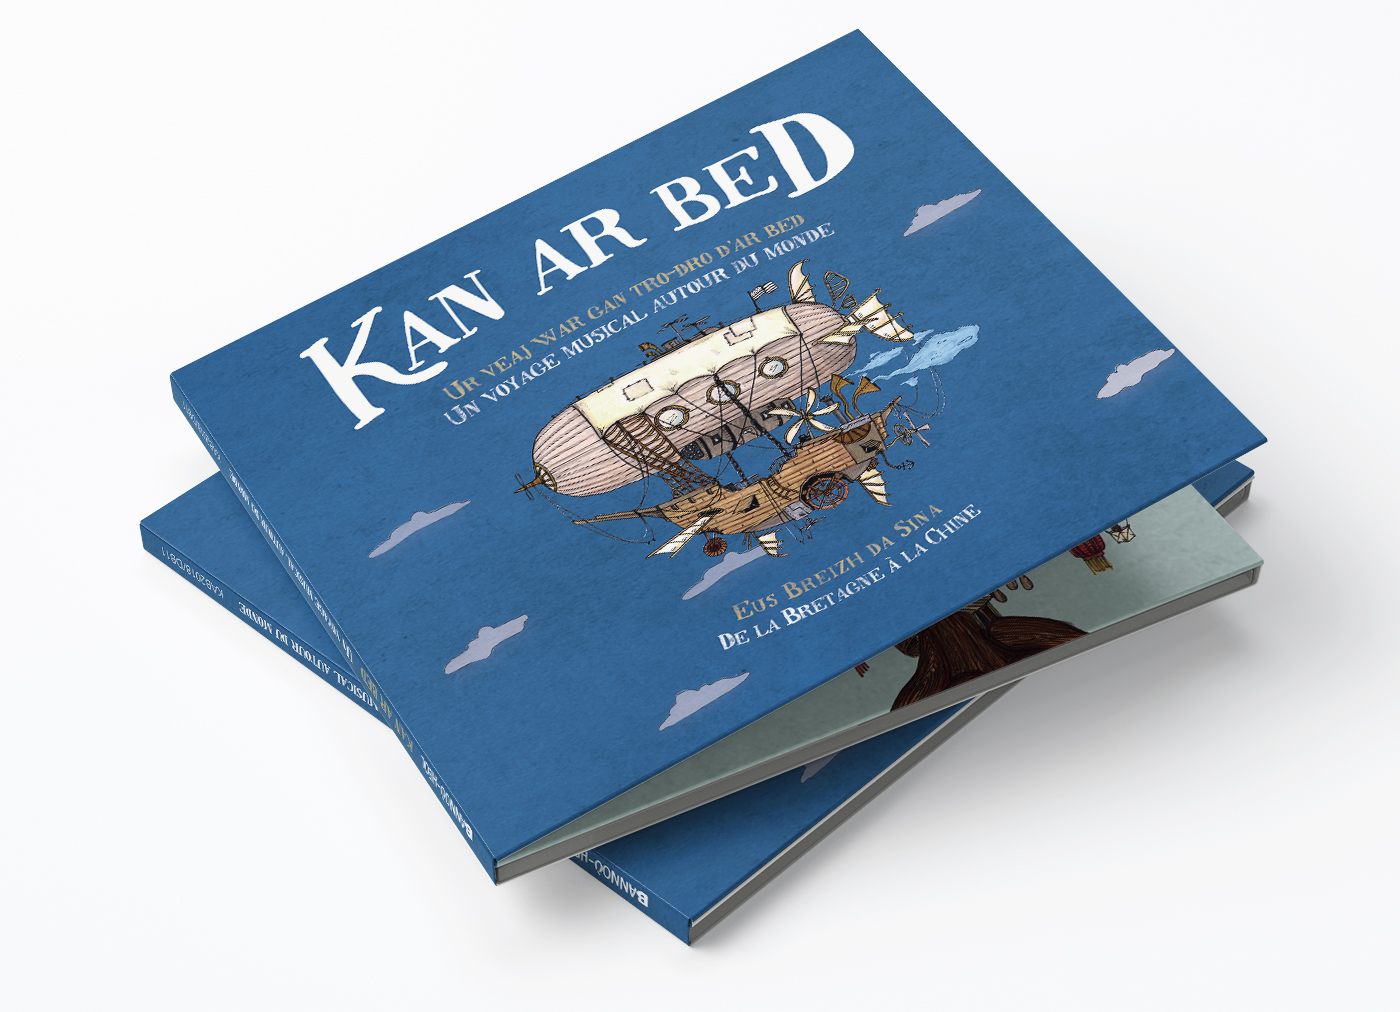
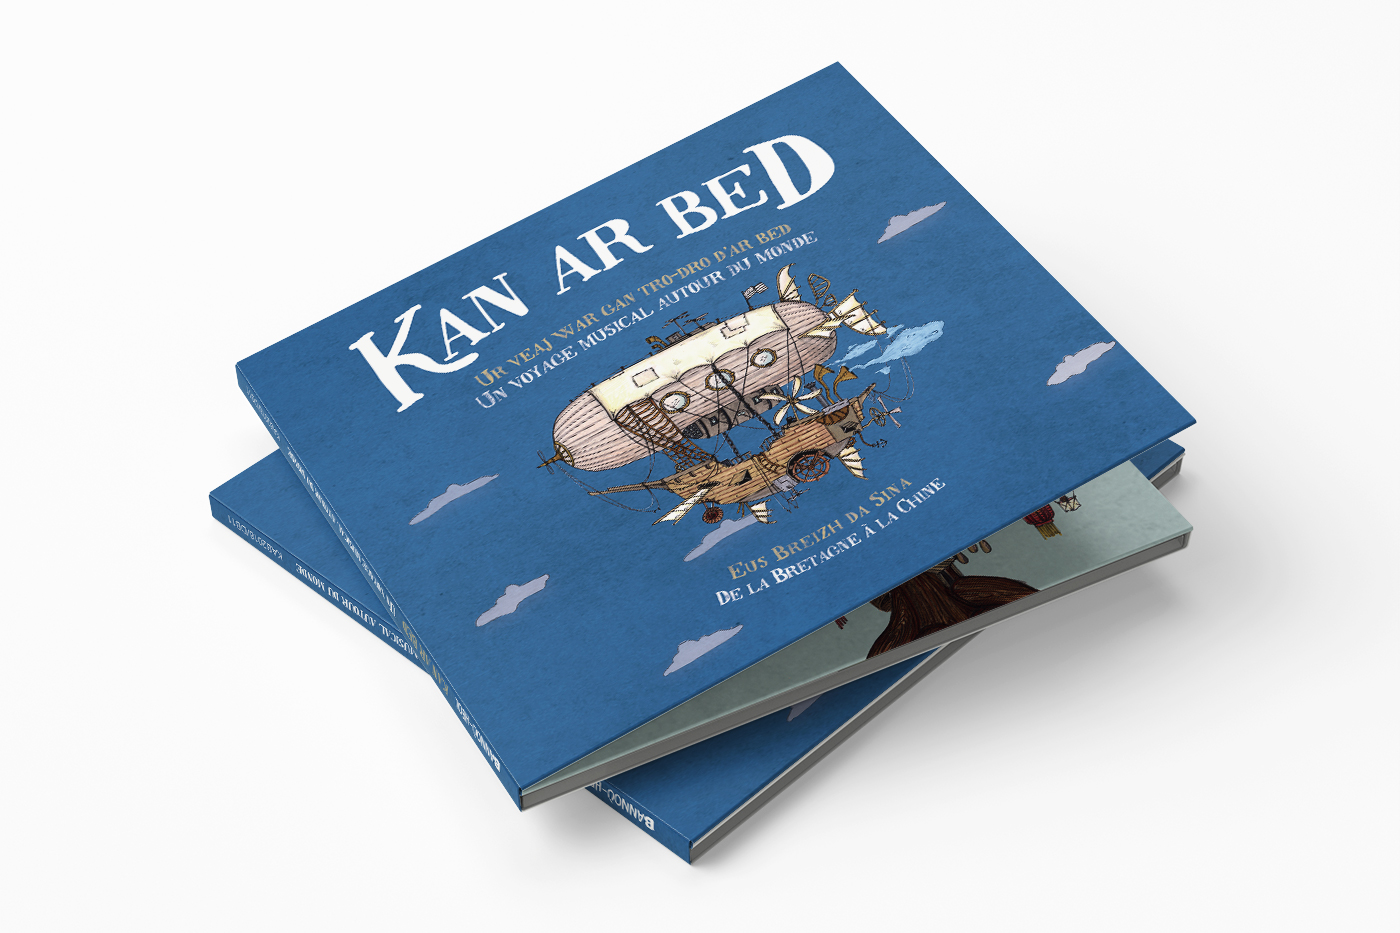
img updates

Changed region(s): [[0.0921, 0.0311, 0.9521, 0.9636], [0.4914, 0.7771, 0.5221, 0.8081], [0.4607, 0.746, 0.4914, 0.7771]]

diff --git a/content/product/kan-ar-bed-livre-cd.html b/content/product/kan-ar-bed-livre-cd.html
@@ -6,8 +6,39 @@ price: 21.90
 <div class="product-page container mt-3 mb-5" itemscope itemtype="https://schema.org/Book">
   <div class="row d-flex justify-content-between">
     <div class="col-md-6" style="border:7px solid #fefefe;box-shadow: 0 10px 20px rgba(0,0,0,0.30), 0 6px 6px rgba(0,0,0,0.10);">
-      <img src="/img/kan-ar-bed-livre.jpg" class="img-fluid pt-3">
-      <div class="thumbnails"></div>
+      <!--<img src="/img/kan-ar-bed-livre.jpg" class="img-fluid pt-3">-->
+      <!--Carousel Wrapper-->
+      <div id="carouselExampleIndicators" class="carousel slide pt-3" data-ride="carousel">
+        <ol class="carousel-indicators">
+          <li data-target="#carouselExampleIndicators" data-slide-to="0" class="active"></li>
+          <li data-target="#carouselExampleIndicators" data-slide-to="1"></li>
+          <li data-target="#carouselExampleIndicators" data-slide-to="2"></li>
+          <li data-target="#carouselExampleIndicators" data-slide-to="3"></li>
+        </ol>
+        <div class="carousel-inner">
+          <div class="carousel-item active">
+            <img class="d-block w-100" src="/img/kan-ar-bed-livre.jpg" alt="Kan ar Bed - Livre CD">
+          </div>
+          <div class="carousel-item">
+            <img class="d-block w-100" src="/img/kan-ar-bed-livre-2.jpg" alt="Kan ar Bed - Livre CD">
+          </div>
+          <div class="carousel-item">
+            <img class="d-block w-100" src="/img/kan-ar-bed-livre-cd-mockup-4.jpg" alt="Kan ar Bed - Extrait">
+          </div>
+          <div class="carousel-item">
+            <img class="d-block w-100" src="/img/kan-ar-bed-livre-cd-mockup-5.jpg" alt="Kan ar Bed - Extrait">
+          </div>
+        </div>
+        <a class="carousel-control-prev" href="#carouselExampleIndicators" role="button" data-slide="prev">
+          <span class="carousel-control-prev-icon" aria-hidden="true"></span>
+          <span class="sr-only">Précédent</span>
+        </a>
+        <a class="carousel-control-next" href="#carouselExampleIndicators" role="button" data-slide="next">
+          <span class="carousel-control-next-icon" aria-hidden="true"></span>
+          <span class="sr-only">Suivant</span>
+        </a>
+      </div>
+      <!--/.Carousel Wrapper-->
     </div>
     <div class="col-md-6">
       <h1>Kan ar Bed</h1>

diff --git a/themes/kanarbed/layouts/partials/kab_products.html b/themes/kanarbed/layouts/partials/kab_products.html
@@ -6,7 +6,7 @@
   <div class="row d-flex justify-content-center product-list">
     <div class="col-md-4 bg-light text-center product m-3">
       <a href="/product/kan-ar-bed-livre-cd" class="d-block">
-        <img src="/img/kan-ar-bed-livre.jpg" class="img-fluid">
+        <img src="/img/kan-ar-bed-livre-2.jpg" class="img-fluid">
         <h3 class="display-5 declinaison-titre text-dark">Livre-CD. <span class="text-secondary">Le cadeau parfait.</span></h2>
         <p class="lead">Un magnifique livre bilingue incluant les textes en breton et leur traduction en français, des illustrations et une histoire à destination de la jeunesse.</p>
         <p class="text-muted">Album de 50 pages, 24 x 24cm + 1 CD</p>
